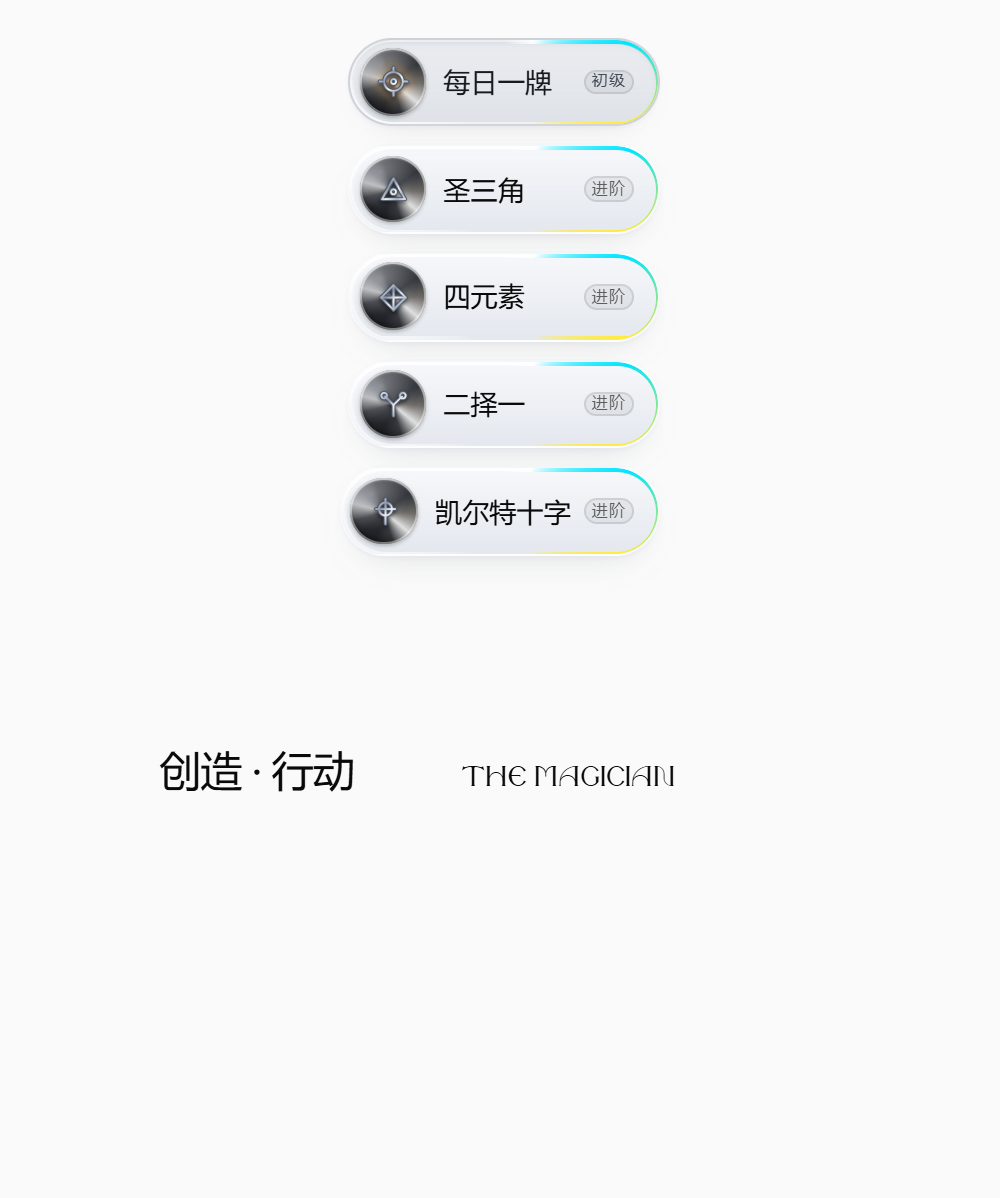
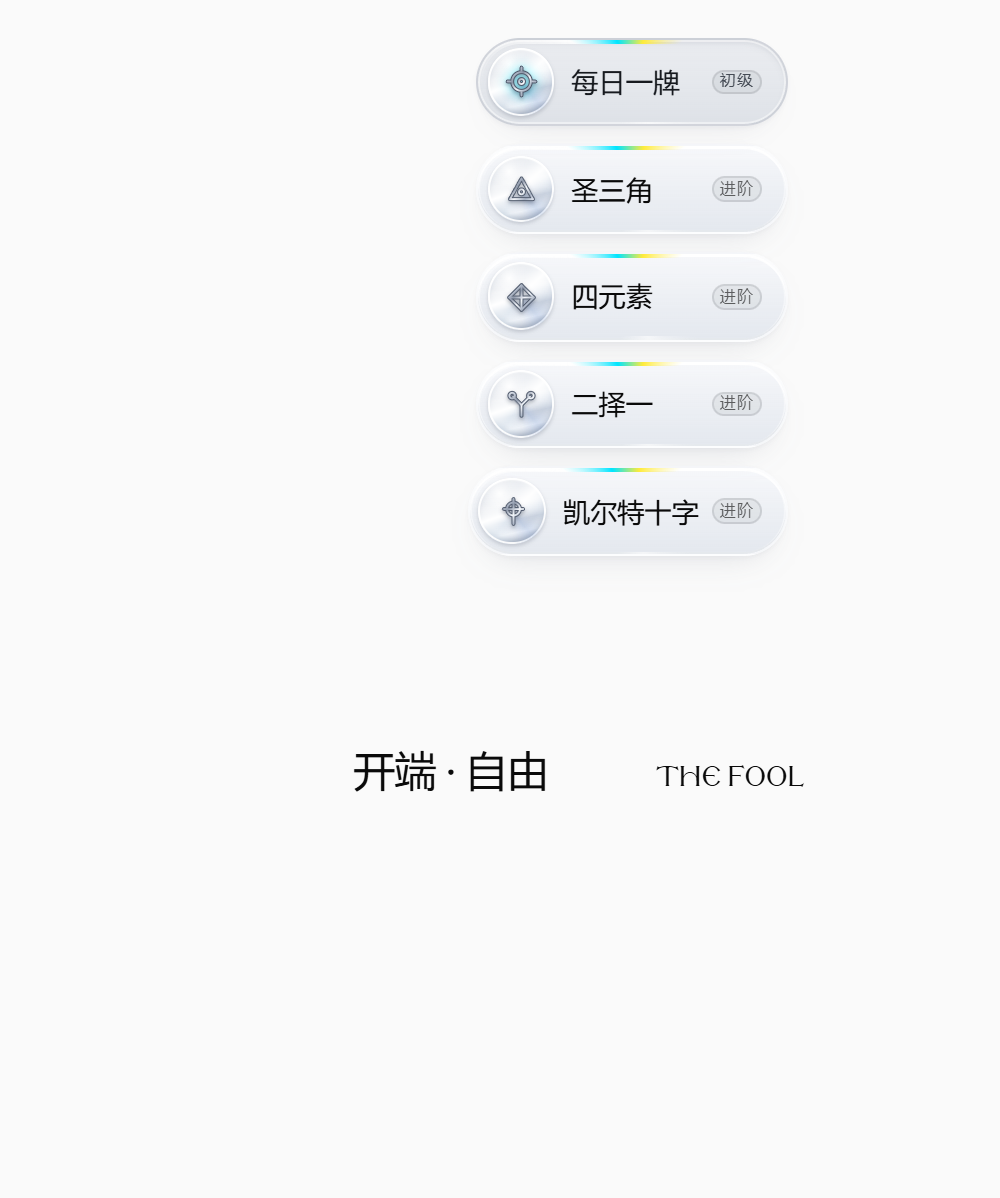
Turn the disc silver, and retune its sweep for a light body
The graphite lens was chosen for contrast against the silver sigil strokes.
With the capsule body now a pale grey pill it reads as a hole punched through
rather than a bead seated in the glass, so the disc goes silver: banded
diagonal gradients for the metal, a fixed top-left specular and a shade
crescent for the sphere.

The sweep had to change with it. screen only adds light, which was right over
graphite and is nearly inert over silver, so the rotation would have kept
running and stopped being visible. hard-light reads the band's own value as the
light it implies, so one conic now carries a highlight and a shade.

The selected glyph's warm halo goes cyan for the same reason: warm only ever
read off a graphite lens, and it is the one hue the palette dropped.

diff --git a/app/globals.css b/app/globals.css
@@ -1751,14 +1751,23 @@ body[data-tone] .element-serif {
 }
 /* The disc the sigil sits in.
  *
- * Dark, and that is the one decision worth arguing. Every mark in
- * ring/sigil.jsx is drawn twice — a dark under-stroke with a silver gradient
- * riding on it — and that pair was cut to sit on a pale plate. Lifted onto the
- * capsule unchanged the silver lands in the same value range as the body and
- * the symbol goes soft. A graphite lens gives the pair the contrast it was
- * drawn for, and it is the only dark object in the menu, which is what makes
- * the disc read as a bead seated in the glass rather than a hole punched
- * through it. */
+ * Polished silver, which reverses the graphite lens this carried while the body
+ * was metal. The old argument for dark was contrast: the marks in ring/sigil.jsx
+ * are drawn twice — a #4f596b under-stroke with a silver gradient riding on it
+ * — and on a pale plate the silver half goes soft. But that pair was cut for
+ * silver-on-silver all along (see the note at the top of sigil.jsx): the
+ * under-stroke is what guarantees the outline everywhere, and the gradient over
+ * it is read as a bevel rather than as ink. What graphite was really buying was
+ * "the only dark object in the menu", and against the pale grey body it now
+ * reads as a hole punched through the glass. Silver keeps the bead — the
+ * top-left specular and the shade crescent at the far side are what make this a
+ * sphere rather than a circle — while seated *in* the material instead of
+ * behind it.
+ *
+ * The banding is the whole trick. A single white-to-grey fade reads as grey
+ * plastic; alternating light and dark stops across a diagonal is what the eye
+ * accepts as metal, and these are the same alternation the sigil's own Metal
+ * gradient uses, so the mark and its ground look cut from one ingot. */
 .play-orb {
   flex: none;
   display: flex;
@@ -1770,32 +1779,57 @@ body[data-tone] .element-serif {
   /* Clips the sweeper below to the disc. */
   overflow: hidden;
   background:
-    /* Fixed specular, top-left — the bead in the reference is mostly rim, and
-       this is the half of it that does not move. */
+    /* Fixed specular, top-left — the half of the highlight that does not move.
+       Nearly opaque white: on a light disc a soft specular is just a lighter
+       white and stops registering as a light source. */
     radial-gradient(
       120% 120% at 32% 24%,
-      rgba(255, 255, 255, 0.34) 0%,
-      rgba(255, 255, 255, 0) 46%
+      rgba(255, 255, 255, 0.98) 0%,
+      rgba(255, 255, 255, 0) 52%
     ),
-    /* Body: graphite, lifting a step toward the top so the disc has an
-       up-side instead of reading as a flat hole. */
-    linear-gradient(168deg, #43464e 0%, #2b2e34 44%, #191b1f 100%);
+    /* The far-side shade. A white disc with no shaded edge has no volume at
+       all, and this crescent is what turns the circle into a sphere. */
+    radial-gradient(
+      96% 96% at 74% 84%,
+      rgba(255, 255, 255, 0) 42%,
+      rgba(126, 139, 160, 0.42) 100%
+    ),
+    /* Body: silver, banded on a diagonal — white, a cool step down, back up,
+       the deepest band two-thirds along, and a last step at the far corner. */
+    linear-gradient(
+      168deg,
+      #ffffff 0%,
+      #e6ebf3 22%,
+      #fbfcfe 40%,
+      #c4cddb 62%,
+      #eef2f8 78%,
+      #a9b4c6 100%
+    );
   box-shadow:
-    inset 0 0 0 1px rgba(255, 255, 255, 0.42),
-    inset 0 1px 1px rgba(255, 255, 255, 0.55),
-    inset 0 -2px 3px rgba(0, 0, 0, 0.5),
-    /* A short, tight seat. The first pass used a wide dark shadow and it read
-       as a smudge on the pale glass rather than as the disc sitting in it. */
-    0 1px 2px rgba(20, 24, 15, 0.26);
+    inset 0 0 0 1px rgba(255, 255, 255, 0.92),
+    inset 0 1px 1px rgba(255, 255, 255, 1),
+    inset 0 -2px 3px rgba(120, 133, 154, 0.45),
+    /* A short, tight seat, and it stays short for the reason it always did: a
+       wide dark shadow reads as a smudge on the pale glass rather than as the
+       disc sitting in it. Cold now, to match the body it falls on. */
+    0 1px 2px rgba(58, 68, 88, 0.22);
 }
 /* 液态流光 — the sheen inside the disc, always moving.
  *
  * Two bands of unequal width rather than one. A single band reads as a
  * highlight going round; uneven bands at a different period from the rim's
  * (7.6s against 6.5s) drift in and out of phase with it, which is what makes
- * the pair read as liquid rather than as two clocks. `screen` so it adds light
- * to the graphite instead of painting grey over it, and a slight blur so the
- * bands have no hard edge to catch the eye as it turns. */
+ * the pair read as liquid rather than as two clocks, and a slight blur so the
+ * bands have no hard edge to catch the eye as it turns.
+ *
+ * The blend mode is the part that had to change with the body. `screen` only
+ * adds light, which was right over graphite and is nearly inert over silver:
+ * white over an already-white disc has nowhere to go, and the sweep would keep
+ * running while becoming invisible — motion that is no longer on screen is the
+ * one failure a screenshot of a still frame cannot catch. `hard-light` takes
+ * the band's own value as the light it implies, so one conic can carry both a
+ * highlight *and* a shade band, and the disc gets the two things polished metal
+ * actually does as it turns. */
 .play-orb::before {
   content: "";
   position: absolute;
@@ -1807,17 +1841,18 @@ body[data-tone] .element-serif {
   background: conic-gradient(
     from 0deg,
     rgba(255, 255, 255, 0) 0deg,
-    rgba(255, 255, 255, 0.06) 26deg,
-    rgba(255, 255, 255, 0.62) 58deg,
-    rgba(226, 239, 255, 0.30) 84deg,
+    rgba(255, 255, 255, 0.3) 26deg,
+    rgba(255, 255, 255, 0.95) 58deg,
+    rgba(226, 239, 255, 0.45) 84deg,
     rgba(255, 255, 255, 0) 116deg,
+    rgba(84, 96, 116, 0.32) 150deg,
     rgba(255, 255, 255, 0) 186deg,
-    rgba(255, 238, 214, 0.34) 226deg,
-    rgba(255, 255, 255, 0.86) 262deg,
-    rgba(255, 255, 255, 0.10) 296deg,
+    rgba(214, 236, 255, 0.42) 226deg,
+    rgba(255, 255, 255, 1) 262deg,
+    rgba(255, 255, 255, 0.16) 296deg,
     rgba(255, 255, 255, 0) 330deg
   );
-  mix-blend-mode: screen;
+  mix-blend-mode: hard-light;
   /* No blur here. An earlier pass blurred this by 0.04em to soften the bands
      and it read as haze sitting on the lens rather than as light in it — the
      bands are already soft enough by construction, since a conic gradient's
@@ -2125,16 +2160,20 @@ body[data-tone] .element-serif {
 }
 /* Struck from the silver gradient in ring/sigil.jsx, so these stay flat
    strokes — no colour, no fill, nothing that can drift with the OS emoji
-   font. They sit on the dark disc of .play-orb now rather than directly on
-   the pale plate, which is the ground that pair was cut for. */
+   font. They sit on the disc of .play-orb, which is the ground that pair was
+   cut for. */
 .play-sigil {
   width: 1.3em;
   height: 1.3em;
   flex: none;
   opacity: 0.96;
-  /* A soft dark seat. The old 1px white under-lip was the pressed edge on
-     pale metal; on graphite the same line reads as a halo of grit. */
-  filter: drop-shadow(0 1px 1px rgba(0, 0, 0, 0.55));
+  /* A soft seat, and on silver it is doing more work than it did on graphite.
+     The mark's own top stroke is silver, so against a silver disc the dark
+     under-stroke is what carries the outline and this shadow is what keeps the
+     whole mark from dissolving into its ground. Cool, not black, and lighter
+     than it was: a hard black line under a light disc reads as a ring of grit
+     rather than as a shadow. */
+  filter: drop-shadow(0 1px 1px rgba(58, 68, 88, 0.42));
   transition:
     opacity 0.2s ease,
     filter 0.2s ease;
@@ -2144,12 +2183,15 @@ body[data-tone] .element-serif {
 }
 .play-row.is-on .play-sigil {
   opacity: 1;
-  /* Same "this one is selected" signal the old rule carried, re-expressed:
-     a warm glow off the disc instead of a white lip, which only read against
-     the pale plate. */
+  /* Same "this one is selected" signal, re-expressed for a light disc. The
+     warm halo this used to carry only ever read off a graphite lens — over
+     silver it lands as a stain, and warm is the one hue the palette dropped
+     when the body went grey. A faint cyan bloom takes over, which is the
+     page's existing accent (it is the same light blue as the ring's lit edge)
+     and is the one colour that still shows as light against white. */
   filter:
-    drop-shadow(0 1px 1px rgba(0, 0, 0, 0.55))
-    drop-shadow(0 0 4px rgba(255, 196, 120, 0.85));
+    drop-shadow(0 1px 1px rgba(58, 68, 88, 0.42))
+    drop-shadow(0 0 3px rgba(0, 229, 255, 0.6));
 }
 .play-level {
   /* Pinned right, so all five tags line up in a column at the capsule ends
@@ -2219,20 +2261,6 @@ body[data-tone] .element-serif {
   transform: translateX(0) translateY(-50%);
 }
 /* The escape hatch, and it has to live HERE rather than in the file's main
-   reduced-motion block up near the top.
- *
- * That block sets `animation: none` on the things it wants stopped, and this
- * file is unlayered with no !important in the menu — so a rule declared later
- * wins at equal specificity, and the three sweeps below are all declared
- * above. Putting the override up there first time round produced a rule that
- * matched, computed, and did nothing: `animationName` still read
- * `play-orb-flow` under an emulated `prefers-reduced-motion: reduce`. Measured,
- * not assumed.
- *
- * Nothing changes shape or disappears here. The disc keeps its fixed specular,
- * the capsule keeps its bezel and rim-light pass and its tinted bloom — only
- * the three endless turns stop, leaving the same objects lit and still. */
-/* The escape hatch, and it has to live HERE rather than in the file's main
  * reduced-motion block up near the top.
  *
  * That block sets `animation: none` on the things it wants stopped, and this
@@ -2243,8 +2271,8 @@ body[data-tone] .element-serif {
  * an emulated `prefers-reduced-motion: reduce`. Measured, not assumed.
  *
  * Nothing changes shape or disappears here. The ring keeps its band and its
- * colours and simply stops turning; the disc keeps its fixed specular. Same
- * objects, lit and still. */
+ * colours and simply stops turning; the disc keeps its fixed specular and its
+ * banding, and loses only the sweep. Same objects, lit and still. */
 @media (prefers-reduced-motion: reduce) {
   .play-border::before,
   .play-orb::before {

diff --git a/components/Carousel.jsx b/components/Carousel.jsx
@@ -1766,10 +1766,12 @@ export default function Carousel() {
           <span className="play-sheen" aria-hidden="true" />
           {/* The sigil used to ride inside .play-name, so it sat on the label's
               baseline and its size was whatever the text line gave it. It now
-              has its own lens: a dark glass disc that the mark is centred in
-              by the disc's own flex box, so the two cannot drift apart. The
-              dark disc is what the silver strokes need — they were drawn to
-              sit on a pale plate and would wash out on the capsule alone. */}
+              has its own disc: the mark is centred by the disc's own flex box,
+              so the two cannot drift apart, and it gets a ground of its own
+              rather than the capsule's flat grey. That ground is silver now —
+              the strokes are a dark under-line carrying a silver gradient, and
+              the pair reads as a bevel on a silver disc where on plain pale
+              glass it would just go soft. */}
           <span className="play-orb" aria-hidden="true">
             <Sigil name={p.sigil} className="play-sigil" />
           </span>
